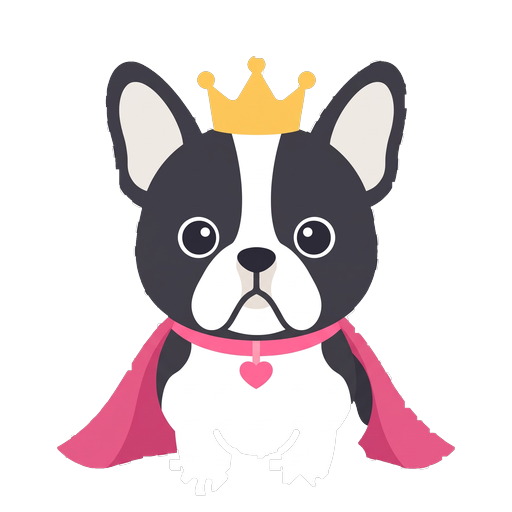
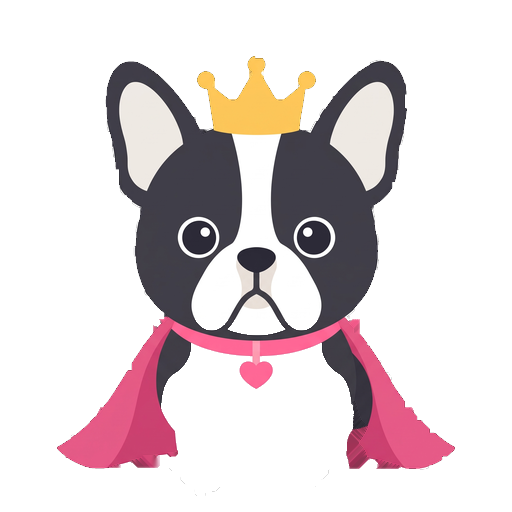
フレンチブルドッグの あしもとの けずれを なおした（lv1・lv3・lv5・そっぽ）

diff --git a/tools_fix_frenchbulldog.py b/tools_fix_frenchbulldog.py
@@ -1,0 +1,84 @@
+import sys, numpy as np
+from PIL import Image, ImageFilter
+
+ROOT = 'img/'
+OUT = sys.argv[1] if len(sys.argv) > 1 else ROOT
+CFG = {'lv1': 16, 'lv3': 10, 'lv5': 16, 'sad': 10}
+
+def close(mask, r):
+    im = Image.fromarray((mask * 255).astype(np.uint8))
+    k = 2 * r + 1
+    im = im.filter(ImageFilter.MaxFilter(k)).filter(ImageFilter.MinFilter(k))
+    return np.asarray(im) > 127
+
+def fill_color(rgb, known, iters=60):
+    rgb = rgb.astype(np.float64).copy()
+    known = known.copy()
+    for _ in range(iters):
+        if known.all():
+            break
+        acc = np.zeros_like(rgb); cnt = np.zeros(known.shape)
+        for dy, dx in ((1,0),(-1,0),(0,1),(0,-1),(1,1),(-1,-1),(1,-1),(-1,1)):
+            k = np.roll(np.roll(known, dy, 0), dx, 1)
+            c = np.roll(np.roll(rgb, dy, 0), dx, 1)
+            acc += c * k[..., None]; cnt += k
+        new = (~known) & (cnt > 0)
+        rgb[new] = acc[new] / cnt[new][:, None]
+        known = known | new
+    return rgb
+
+SPAN = {'lv1': 0.74, 'lv5': 0.80}   # この たかさ いかは よこに ぜんぶ うめる（まえむきの あし）
+
+def smooth(v, k):
+    out = v.copy()
+    for i in range(len(v)):
+        w = v[max(0, i - k): i + k + 1]
+        out[i] = int(np.median(w))
+    return out
+
+for name, rb in CFG.items():
+    im = Image.open(ROOT + f'frenchbulldog_{name}.png').convert('RGBA')
+    a = np.asarray(im).astype(np.uint8)
+    alpha = a[..., 3]
+    solid = alpha > 128
+    H, W = solid.shape
+    ys, xs = np.where(solid)
+    top, bot = ys.min(), ys.max()
+    y_low = int(top + (bot - top) * 0.60)
+    low = np.zeros_like(solid); low[y_low:, :] = True
+    closed = close(solid, 4) | (close(solid, rb) & low)
+    if name in SPAN:
+        y0 = int(top + (bot - top) * SPAN[name])
+        L = np.full(H, -1); R = np.full(H, -1)
+        for y in range(y0, bot + 1):
+            xx = np.where(closed[y])[0]
+            if len(xx): L[y], R[y] = xx.min(), xx.max()
+        rows = np.arange(y0, bot - 14)
+        Ls = smooth(L[y0:bot + 1], 7); Rs = smooth(R[y0:bot + 1], 7)
+        base = bot - 16
+        for j, y in enumerate(range(y0, bot + 1)):
+            l, r = Ls[j], Rs[j]
+            if y > base:                      # したの かどを まるく
+                t = (y - base) / 16.0
+                inset = int(round(12 * (1 - np.sqrt(max(0.0, 1 - t * t)))))
+                l += inset; r -= inset
+            if l >= 0 and r > l:
+                closed[y, l:r + 1] = True
+    closed[bot + 1:, :] = False
+    add = closed & ~solid
+    rgb = fill_color(a[..., :3], solid)
+    out = a.copy()
+    out[..., :3][add] = np.clip(rgb[add], 0, 255).astype(np.uint8)
+    # したの あたりの しろい ぶぶんは まっしろに そろえる（いちまつの ごみを けす）
+    c = out[..., :3].astype(int)
+    sat = c.max(-1) - c.min(-1); val = c.max(-1)
+    white = closed & low & (sat < 28) & (val > 130)
+    out[..., :3][white] = 255
+    m = Image.fromarray((closed * 255).astype(np.uint8)).filter(ImageFilter.GaussianBlur(1.0))
+    m = np.asarray(m).astype(np.float64) / 255
+    al = np.where(closed, np.maximum(m, alpha / 255.0), alpha / 255.0)
+    al = np.where(closed & (solid | add), np.maximum(al, np.where(add, m, 1.0) * (1 if True else 0)), al)
+    out[..., 3] = np.clip(al * 255 + 0.5, 0, 255).astype(np.uint8)
+    out[..., 3][~closed] = np.minimum(out[..., 3][~closed], alpha[~closed])
+    Image.fromarray(out, 'RGBA').save(OUT + f'frenchbulldog_{name}.png')
+    print(name, int(add.sum()), 'px added')

diff --git a/HANDOFF.md b/HANDOFF.md
@@ -19,6 +19,11 @@
   （`tools_make_dog_png.py plush` は全部を作り直すので重い。F・G は img へ直接コピー済み）
 - 手元の確認: チケットで F を取得、F コンプリート後に G が出る、までブラウザで確認済み。`park` クリア時の付与そのものは未プレイ（コードのみ）
 
+## フレンチブルの足元（修正済み）
+- 元絵 01〜04 は「いちまつ」背景で、白い体と背景の白マスがくっついて足先が削れていた。lv15(05.png、緑背景)は問題なし
+- `tools_fix_frenchbulldog.py` で img の lv1/lv3/lv5/sad を後処理（削れを埋めて足元を白で整える。足の指の線は消える）。
+  `tools_make_dog_png.py` を再実行すると元に戻るので、実行後にこちらも再実行する
+
 ## 決定事項
 - 「トップ画面」＝犬を表示するマップ画面と解釈（違えば移す）
 - 「こ」の絵は lv1、「おや」は lv5 を流用（子犬専用の絵は無い）
